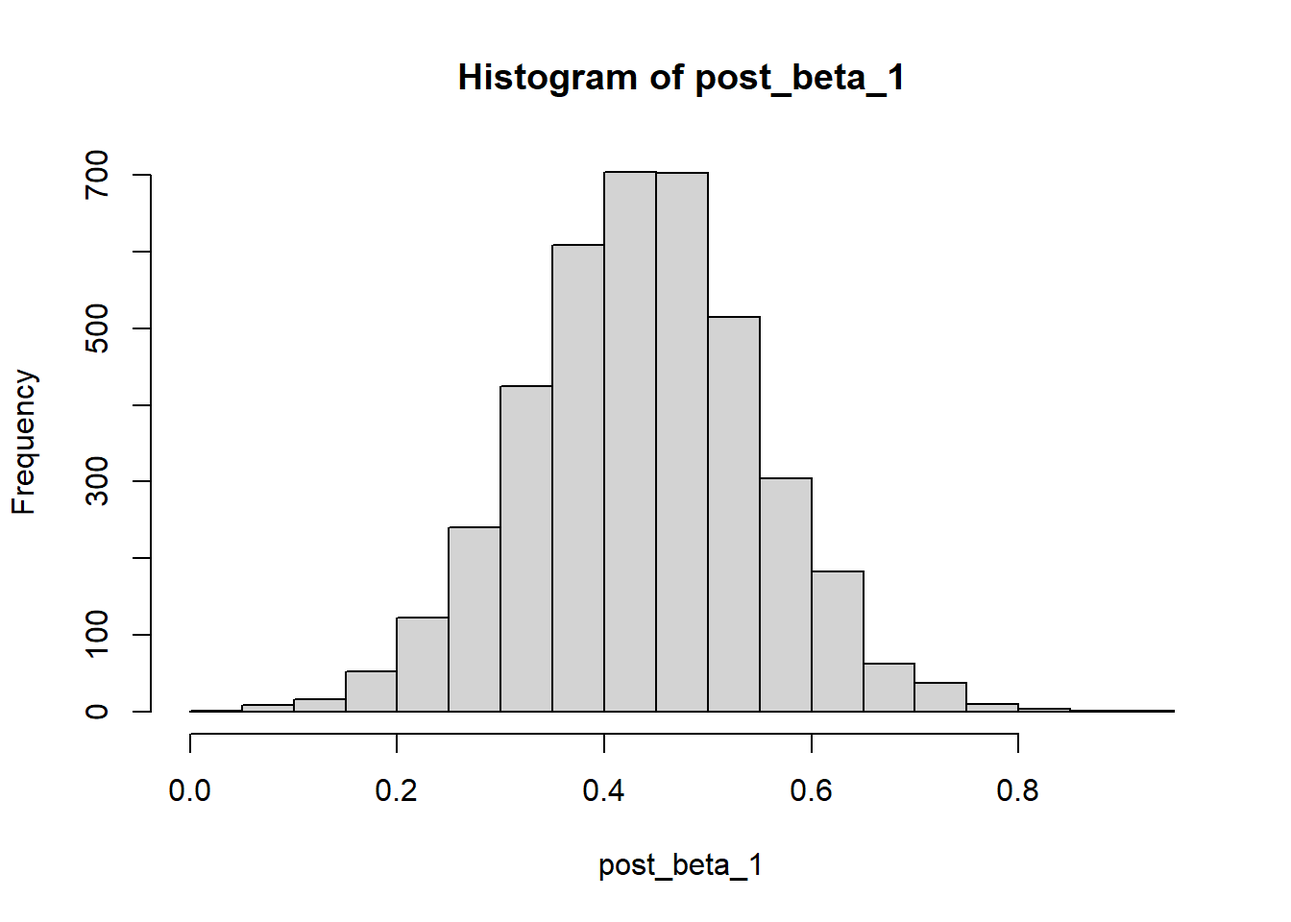
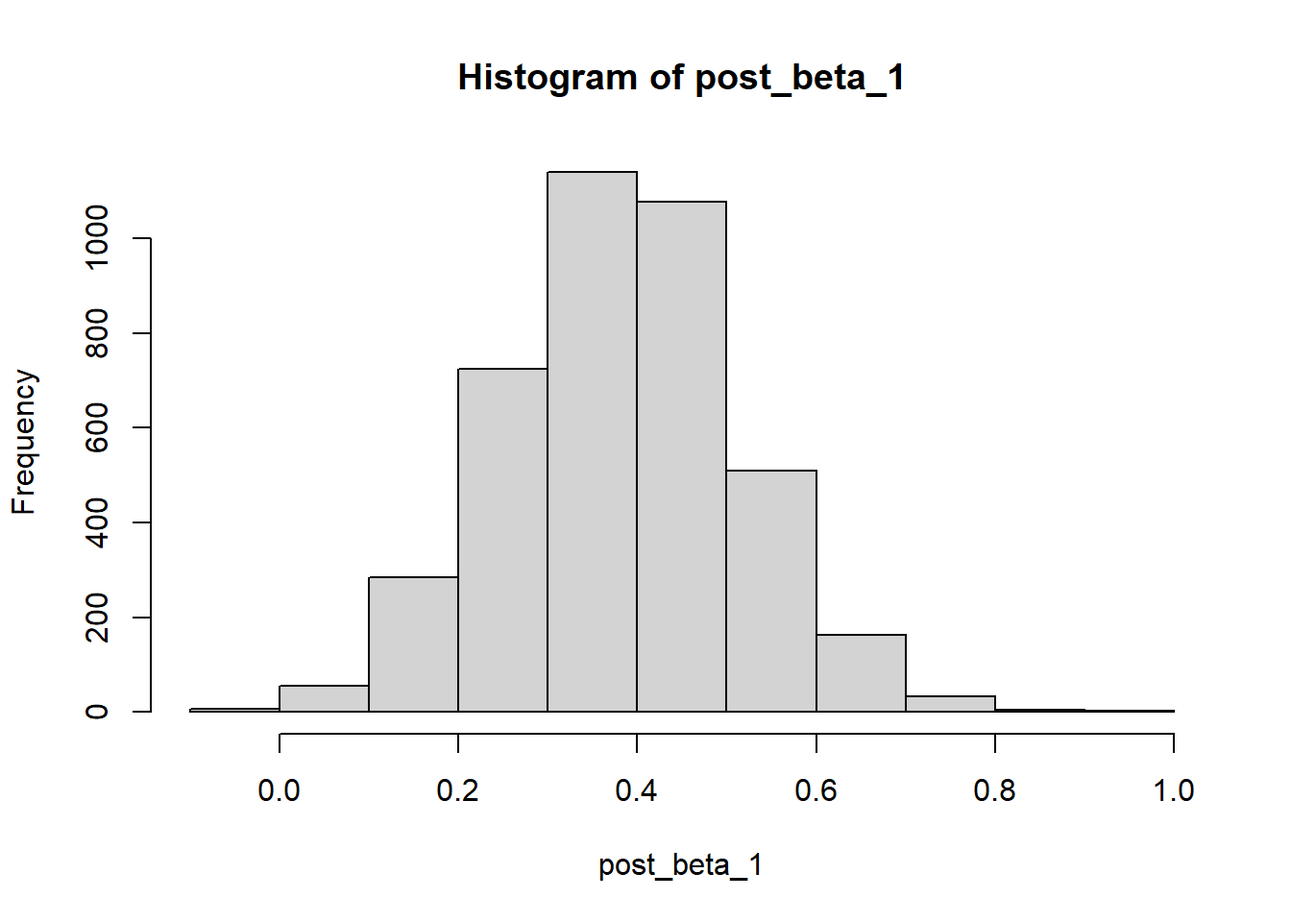
updated

diff --git a/docs/using-stan-in-r.html b/docs/using-stan-in-r.html
@@ -24,7 +24,7 @@
 <meta name="author" content="Jordan S. Martin &amp; Adrian V. Jaeggi" />
 
 
-<meta name="date" content="2021-05-20" />
+<meta name="date" content="2021-05-21" />
 
   <meta name="viewport" content="width=device-width, initial-scale=1" />
   <meta name="apple-mobile-web-app-capable" content="yes" />
@@ -417,7 +417,7 @@ generated quantities {
 <pre><code>## Warning in system(paste(CXX, ARGS), ignore.stdout = TRUE, ignore.stderr = TRUE): &#39;C:/rtools40/usr/mingw_/bin/g++&#39; not found</code></pre>
 <div class="sourceCode" id="cb19"><pre class="sourceCode r"><code class="sourceCode r"><span id="cb19-1"><a href="using-stan-in-r.html#cb19-1" aria-hidden="true" tabindex="-1"></a>stan_results <span class="ot">&lt;-</span> <span class="fu">sampling</span>(mod1, <span class="at">data=</span>stan_data, <span class="at">init =</span> <span class="dv">0</span>, <span class="at">warmup=</span><span class="dv">1500</span>, <span class="at">iter =</span> <span class="dv">2500</span>,</span>
 <span id="cb19-2"><a href="using-stan-in-r.html#cb19-2" aria-hidden="true" tabindex="-1"></a>                         <span class="at">chains=</span><span class="dv">4</span>, <span class="at">cores=</span><span class="dv">4</span>, <span class="at">control=</span><span class="fu">list</span>(<span class="at">adapt_delta=</span><span class="fl">0.90</span>) )</span></code></pre></div>
-<pre><code>## Warning: There were 93 divergent transitions after warmup. See
+<pre><code>## Warning: There were 1 divergent transitions after warmup. See
 ## http://mc-stan.org/misc/warnings.html#divergent-transitions-after-warmup
 ## to find out why this is a problem and how to eliminate them.</code></pre>
 <pre><code>## Warning: There were 4 chains where the estimated Bayesian Fraction of Missing Information was low. See
@@ -435,54 +435,54 @@ generated quantities {
 <p>Stan flags a few potential issues with the MCMC sampler. Note that the warning <code>## Warning in system(paste(CXX, ARGS), ignore.stdout = TRUE, ignore.stderr = TRUE): 'C:/rtools40/usr/mingw_/bin/g++' not found</code> during compilation of the model will sometimes appear on Windows computers and can be safely ignored. Further description of the sampler warnings can be found in the <a href="https://mc-stan.org/misc/warnings.html">Stan Warning Guide</a>. One warning is that “The largest R-hat is NA, indicating chains have not mixed.” Stan does not know whether some parameter values are fixed (causing Rhat = NA) because the sampler is stuck, or because the model has been intentionally specified with fixed parameter values (e.g. diagonals fixed to 1 in a correlation matrix or an intercept forced to 0). For the specified model, this is a harmless warning that can be safely ignored. However, we can also check for issues by looking at the Rhat values of all model parameters using <code>summary()</code> on the saved results. If an expected parameter is missing from the table or shows NA, this likely indicates an unintentional error in the model code.</p>
 <div class="sourceCode" id="cb26"><pre class="sourceCode r"><code class="sourceCode r"><span id="cb26-1"><a href="using-stan-in-r.html#cb26-1" aria-hidden="true" tabindex="-1"></a><span class="fu">summary</span>(stan_results)<span class="sc">$</span>summary[,<span class="st">&quot;Rhat&quot;</span>]</span></code></pre></div>
 <pre><code>##       mu_0     beta_1  Pcor[1,1]  Pcor[1,2]  Pcor[2,1]  Pcor[2,2]    sd_P[1]    sd_P[2]       sd_R  re_P[1,1]  re_P[1,2]  re_P[2,1] 
-##  1.0026320  1.0009686        NaN  1.0166652  1.0166652  0.9989995  1.0726442  1.0638429  1.0263059  1.0088335  1.0116059  1.0058076 
+##  1.0008967  1.0001588        NaN  1.0072679  1.0072679  0.9989995  1.1574188  1.0775618  1.0398132  1.0196134  1.0284245  1.0452443 
 ##  re_P[2,2]  re_P[3,1]  re_P[3,2]  re_P[4,1]  re_P[4,2]  re_P[5,1]  re_P[5,2]  re_P[6,1]  re_P[6,2]  re_P[7,1]  re_P[7,2]  re_P[8,1] 
-##  1.0094798  1.0001408  0.9993205  1.0029558  1.0019506  1.0029157  1.0000847  1.0043532  1.0020348  1.0010222  1.0018598  1.0027319 
+##  1.0011629  1.0184104  1.0021715  0.9997928  1.0022767  1.0174439  1.0052449  1.0069304  1.0016392  1.0006691  0.9996614  1.0001272 
 ##  re_P[8,2]  re_P[9,1]  re_P[9,2] re_P[10,1] re_P[10,2] re_P[11,1] re_P[11,2] re_P[12,1] re_P[12,2] re_P[13,1] re_P[13,2] re_P[14,1] 
-##  1.0088854  1.0027357  1.0058682  1.0002392  1.0172781  1.0065172  1.0089800  1.0034526  1.0015110  1.0000772  1.0027827  1.0127108 
+##  1.0018600  1.0166775  1.0204737  1.0362708  1.0008611  1.0008434  1.0000359  1.0581012  1.0007606  1.0046482  1.0000243  0.9998035 
 ## re_P[14,2] re_P[15,1] re_P[15,2] re_P[16,1] re_P[16,2] re_P[17,1] re_P[17,2] re_P[18,1] re_P[18,2] re_P[19,1] re_P[19,2] re_P[20,1] 
-##  1.0179641  1.0377981  1.0166437  1.0121575  1.0077579  1.0121821  1.0029017  1.0002369  1.0045655  1.0106781  1.0077376  1.0034594 
+##  0.9996619  1.0206148  1.0050943  1.0495529  1.0244163  0.9997984  1.0207368  1.0023433  1.0027906  1.0264816  1.0050040  1.0307196 
 ## re_P[20,2] re_P[21,1] re_P[21,2] re_P[22,1] re_P[22,2] re_P[23,1] re_P[23,2] re_P[24,1] re_P[24,2] re_P[25,1] re_P[25,2] re_P[26,1] 
-##  1.0085485  1.0096558  1.0008878  1.0037961  1.0102729  1.0173207  1.0227251  1.0039997  1.0016865  1.0068340  1.0031383  1.0006287 
+##  1.0090449  1.0211593  0.9995477  1.0119403  1.0138074  1.0028584  0.9993717  1.0017201  1.0004068  1.0112600  1.0023976  1.0013392 
 ## re_P[26,2] re_P[27,1] re_P[27,2] re_P[28,1] re_P[28,2] re_P[29,1] re_P[29,2] re_P[30,1] re_P[30,2] re_P[31,1] re_P[31,2] re_P[32,1] 
-##  1.0000878  1.0003371  1.0024651  1.0017270  1.0164660  0.9999240  1.0087429  1.0203268  1.0135270  1.0017517  1.0011365  1.0049886 
+##  1.0107415  0.9998755  1.0003715  1.0050791  1.0005347  1.0157901  1.0030050  1.0314979  1.0000213  1.0145041  1.0029017  1.0098378 
 ## re_P[32,2] re_P[33,1] re_P[33,2] re_P[34,1] re_P[34,2] re_P[35,1] re_P[35,2] re_P[36,1] re_P[36,2] re_P[37,1] re_P[37,2] re_P[38,1] 
-##  1.0055626  1.0075793  1.0014159  1.0012052  1.0013731  1.0076768  1.0090014  1.0072797  1.0006327  1.0188806  1.0119415  1.0186577 
+##  1.0028675  1.0401011  1.0129501  1.0161442  1.0394234  1.0069250  1.0031071  1.0067137  1.0020411  1.0251800  1.0002062  1.0198244 
 ## re_P[38,2] re_P[39,1] re_P[39,2] re_P[40,1] re_P[40,2] re_P[41,1] re_P[41,2] re_P[42,1] re_P[42,2] re_P[43,1] re_P[43,2] re_P[44,1] 
-##  1.0151119  1.0090711  1.0004891  1.0006548  1.0011479  1.0207025  1.0135385  1.0098359  1.0043959  1.0222056  1.0084265  1.0070951 
+##  0.9994618  1.0070820  1.0001880  1.0026890  1.0001338  1.0016284  1.0174026  1.0010212  1.0085000  1.0147819  0.9994687  1.0335753 
 ## re_P[44,2] re_P[45,1] re_P[45,2] re_P[46,1] re_P[46,2] re_P[47,1] re_P[47,2] re_P[48,1] re_P[48,2] re_P[49,1] re_P[49,2] re_P[50,1] 
-##  1.0304457  1.0089018  1.0091918  1.0025607  1.0022025  1.0040155  1.0006533  1.0025001  1.0090719  1.0097918  1.0037073  1.0084893 
+##  1.0115280  1.0000137  1.0020411  1.0255249  1.0016970  1.0054378  1.0006933  1.0018467  0.9996326  1.0075404  1.0048380  1.0224494 
 ## re_P[50,2]  Pcov[1,1]  Pcov[1,2]  Pcov[2,1]  Pcov[2,2]     V_P[1]     V_P[2]        V_R       lp__ 
-##  1.0057531  1.0449044  1.0218233  1.0218233  1.0319164  1.0449044  1.0319164  1.0279306  1.1225149</code></pre>
+##  1.0004108  1.0956553  1.0227750  1.0227750  1.0528411  1.0956553  1.0528411  1.0386245  1.2341243</code></pre>
 <p>In addition to the Rhat warning, the effective sample sizes of some model parameters are too low to ensure accurate inferences. It is helpful to see which parameters are causing these warnings by sorting on the lowest <code>n_eff</code> values in the summary table.</p>
 <div class="sourceCode" id="cb28"><pre class="sourceCode r"><code class="sourceCode r"><span id="cb28-1"><a href="using-stan-in-r.html#cb28-1" aria-hidden="true" tabindex="-1"></a><span class="fu">sort</span>(<span class="fu">summary</span>(stan_results)<span class="sc">$</span>summary[,<span class="st">&quot;n_eff&quot;</span>])</span></code></pre></div>
-<pre><code>##       lp__    sd_P[1]    sd_P[2]  Pcov[1,1]     V_P[1] re_P[44,2] re_P[15,1]        V_R       sd_R     V_P[2]  Pcov[2,2]  Pcov[1,2] 
-##   35.65893   58.12899   62.80334   89.60433   89.60433   98.41921  105.35462  107.05856  111.01354  112.54882  112.54882  126.14428 
-##  Pcov[2,1]  Pcor[1,2]  Pcor[2,1] re_P[14,2] re_P[30,1] re_P[30,2] re_P[43,1] re_P[41,1] re_P[15,2] re_P[41,2] re_P[37,1] re_P[23,2] 
-##  126.14428  165.01637  165.01637  175.60617  181.79966  189.57341  190.26715  195.25187  198.53528  199.52543  203.59017  210.66865 
-## re_P[38,2] re_P[23,1] re_P[28,2] re_P[38,1] re_P[37,2] re_P[44,1] re_P[14,1] re_P[17,1] re_P[22,2] re_P[10,2]  re_P[2,2] re_P[45,2] 
-##  217.38826  221.53154  225.02074  231.82558  235.81486  269.22337  275.57595  288.67236  290.89820  313.29463  314.54274  356.12807 
-## re_P[49,1] re_P[42,1] re_P[50,1] re_P[16,1] re_P[50,2] re_P[19,2] re_P[45,1] re_P[19,1] re_P[39,1] re_P[43,2] re_P[21,1]  re_P[1,2] 
-##  357.63195  378.32709  395.45295  405.65965  409.88504  416.68229  419.21104  424.91383  429.64442  442.07352  470.31014  479.06601 
-## re_P[20,2] re_P[48,2] re_P[11,2]  re_P[9,2] re_P[42,2] re_P[29,2] re_P[16,2] re_P[35,2] re_P[49,2]  re_P[1,1]  re_P[2,1] re_P[32,2] 
-##  545.22258  559.98124  569.11151  584.91943  605.44400  616.45218  621.65780  624.82614  633.63990  654.69107  686.88941  692.29973 
-## re_P[36,1] re_P[35,1]  re_P[8,2] re_P[33,1] re_P[22,1] re_P[11,1] re_P[32,1] re_P[18,2]       mu_0 re_P[20,1] re_P[40,2] re_P[24,2] 
-##  749.90637  751.07229  781.70792  801.91688  821.22141  860.63509  874.00721  951.15378  957.21085  965.64037  993.97134 1018.00603 
-##  re_P[9,1] re_P[24,1] re_P[47,1] re_P[17,2]  re_P[6,1] re_P[46,2] re_P[33,2] re_P[34,2] re_P[25,2] re_P[25,1] re_P[46,1] re_P[26,2] 
-## 1041.44863 1057.54081 1083.22626 1114.82606 1142.57835 1183.08778 1197.29516 1223.05726 1233.85505 1246.44675 1263.75845 1308.85597 
-## re_P[12,1] re_P[40,1] re_P[28,1]  re_P[6,2] re_P[21,2]  re_P[5,1]  re_P[8,1]  re_P[4,2]     beta_1 re_P[34,1]  re_P[4,1] re_P[31,1] 
-## 1338.03356 1364.42699 1506.38212 1658.15969 1731.68936 1750.65817 1781.78022 1798.06437 1959.43300 1968.55354 1989.51415 1998.22083 
-## re_P[48,1] re_P[26,1] re_P[13,2]  Pcor[2,2] re_P[27,2]  re_P[5,2] re_P[31,2]  re_P[3,1] re_P[12,2] re_P[29,1]  re_P[3,2] re_P[27,1] 
-## 2071.43653 2132.96468 2181.82000 2241.25987 2272.30280 2272.81071 2282.25112 2313.26050 2615.54067 2671.80157 2775.73864 2787.60689 
-## re_P[18,1]  re_P[7,1] re_P[39,2] re_P[10,1] re_P[47,2]  re_P[7,2] re_P[13,1] re_P[36,2] 
-## 2938.57898 3014.69643 3504.62641 3645.64250 3869.54815 4033.43111 4048.90051 4634.91106</code></pre>
-<p>It is typical that individual-specific trait values in <code>re_P</code> have relatively lower effective sample sizes than the population-level parameters of primary interest. More damningly, however, we also see an extremely low effective sample for <code>lp__</code>, which is the joint log density of the model (up to a constant internally defined <a href="https://www.jax.org/news-and-insights/jax-blog/2015/october/lp-in-stan-output#">scale factor</a>. This provides further evidence that the model, as currently defined, is poorly identified. The key random effect SDs <code>sd_P</code> and variances <code>V_P</code> are also very poorly sampled, along with the residual SD <code>sd_R</code> and variance <code>V_R</code>. We could run the MCMC sampler for more iterations, increase the warm-up period, and change various other manual control settings. However, the deeper issue here is not that the model is formally mispecified but rather that we have inefficiently parametrized the model for sampling.</p>
+<pre><code>##       lp__    sd_P[1]  Pcov[1,1]     V_P[1] re_P[12,1]  re_P[2,1] re_P[16,1]    sd_P[2] re_P[33,1] re_P[10,1] re_P[44,1]       sd_R 
+##   10.97995   27.24745   42.16285   42.16285   64.40411   82.93862   83.16608   92.56539  102.40674  114.44290  116.45839  118.99962 
+## re_P[30,1] re_P[20,1]        V_R     V_P[2]  Pcov[2,2] re_P[37,1] re_P[46,1] re_P[19,1] re_P[34,2] re_P[50,1] re_P[15,1] re_P[38,1] 
+##  122.94777  124.82995  125.71990  134.79132  134.79132  155.26121  155.46897  157.98349  158.67595  183.74590  196.47660  197.55655 
+##  re_P[1,1] re_P[21,1] re_P[16,2]  re_P[3,1]  re_P[9,1] re_P[29,1]  re_P[1,2]  Pcov[1,2]  Pcov[2,1] re_P[31,1]  re_P[5,1]  re_P[9,2] 
+##  200.55848  224.97798  232.53858  234.30552  271.38077  273.57623  279.45320  296.76103  296.76103  326.50819  349.15362  358.43665 
+## re_P[43,1] re_P[17,2] re_P[41,2] re_P[22,1] re_P[22,2] re_P[34,1] re_P[32,1]  Pcor[1,2]  Pcor[2,1] re_P[44,2] re_P[26,2] re_P[33,2] 
+##  430.96482  432.25550  465.30813  487.01704  487.38079  521.68000  569.04680  593.83738  593.83738  595.85456  627.88391  630.52415 
+## re_P[25,1] re_P[20,2] re_P[49,1] re_P[36,1] re_P[42,2]  re_P[6,1] re_P[47,1] re_P[35,1] re_P[15,2] re_P[13,1] re_P[39,1] re_P[49,2] 
+##  725.27211  731.23054  781.43202  826.92835  883.60653  927.67319  984.36124 1039.65898 1068.96995 1255.79995 1381.24821 1474.95953 
+##  re_P[5,2] re_P[29,2] re_P[25,2] re_P[19,2] re_P[45,2]  re_P[3,2]  re_P[8,2] re_P[10,2] re_P[28,1]  re_P[4,2] re_P[46,2] re_P[18,2] 
+## 1626.33500 1650.43908 1703.85418 1763.79002 1798.34864 1858.14798 1886.58272 1986.00320 2066.43964 2237.87316 2460.50193 2517.59106 
+## re_P[35,2] re_P[30,2] re_P[24,2] re_P[41,1] re_P[32,2] re_P[28,2]  re_P[2,2]       mu_0     beta_1 re_P[23,1] re_P[12,2] re_P[47,2] 
+## 2555.80487 2566.52470 2621.26703 2633.14269 2786.17790 2809.10773 2812.69012 2854.84449 2856.14831 2924.49013 3003.85518 3007.51877 
+##  re_P[7,1] re_P[48,1] re_P[11,1] re_P[40,1]  re_P[6,2]  Pcor[2,2] re_P[14,2] re_P[21,2] re_P[36,2] re_P[23,2] re_P[48,2] re_P[31,2] 
+## 3053.59926 3053.78026 3091.77888 3115.32614 3118.84701 3269.96560 3358.36140 3369.13936 3396.81445 3500.03227 3541.64807 3580.73653 
+## re_P[26,1] re_P[24,1] re_P[50,2] re_P[18,1] re_P[11,2] re_P[42,1] re_P[38,2] re_P[39,2] re_P[17,1] re_P[27,1] re_P[43,2]  re_P[8,1] 
+## 3714.32350 3731.71198 3853.84891 4114.42998 4133.32341 4158.00773 4182.73043 4188.62715 4192.62621 4264.77744 4281.57240 4377.90817 
+##  re_P[7,2] re_P[45,1] re_P[13,2] re_P[40,2] re_P[37,2] re_P[14,1]  re_P[4,1] re_P[27,2] 
+## 4393.12039 4500.05943 4533.14194 4828.37430 5125.55654 5393.71614 5419.25127 5753.58966</code></pre>
+<p>It is typical that individual-specific trait values in <code>re_P</code> have relatively lower effective sample sizes than the population-level parameters of primary interest. More damningly, however, we also see an extremely low effective sample for <code>lp__</code>, which is the joint log density of the model (up to a constant internally defined <a href="https://www.jax.org/news-and-insights/jax-blog/2015/october/lp-in-stan-output#">scale factor</a>). This provides further evidence that the model, as currently defined, is poorly identified. The key random effect SDs <code>sd_P</code> and variances <code>V_P</code> are also very poorly sampled, along with the residual SD <code>sd_R</code> and variance <code>V_R</code>. We could run the MCMC sampler for more iterations, increase the warm-up period, and change various other manual control settings. However, the deeper issue here is not that the model is formally mispecified but rather that we have inefficiently parametrized the model for sampling.</p>
 <div id="cholesky-decompositions" class="section level3" number="1.4.1">
 <h3><span class="header-section-number">1.4.1</span> Cholesky decompositions</h3>
 <p>Although the <code>.stan</code> file appropriately represents the formal model, it is programmed in such a way that the MCMC sampler has troubling sampling from the joint posterior distribution of the model. One of the first things we can do to increase efficiency is to reduce redundant computation over matrices in our model. This can be done with Cholesky decompositions. For any positive definite matrix <span class="math inline">\(\boldsymbol{\Omega}\)</span>, a Cholesky decomposition can be defined such that</p>
 <p><span class="math display">\[\boldsymbol{\Omega} = \boldsymbol{\mathrm{L}_{\Omega}} \boldsymbol{\mathrm{L}_{\Omega}}^{\mathrm{T}}\]</span>
 where <span class="math inline">\(\boldsymbol{\mathrm{L}_{\Omega}}\)</span> is a lower-triangular matrix and <span class="math inline">\(^{\mathrm{T}}\)</span> indicates matrix transposition. This property means that we can always do computations of reduced dimensionality on the lower-triangular matrix <span class="math inline">\(\boldsymbol{\mathrm{L}_{\Omega}}\)</span> and subsequently recover the full positive-definitive matrix <span class="math inline">\(\boldsymbol{\Omega}\)</span> by post-multiplying <span class="math inline">\(\boldsymbol{\mathrm{L}_{\Omega}}\)</span> with its transpose.</p>
-<p>Stan provides many built-in functions for easily defining and manipulating Cholesky decomposed matrices, which we can use to re-parameterize the <code>.stan</code> file. Comments are added below where Cholesky decompositions have been introduced.</p>
+<p>Stan provides many built-in functions for easily defining and manipulating Cholesky decomposed matrices, which we can use to reparametrize the <code>.stan</code> file. Comments are added below where Cholesky decompositions have been introduced.</p>
 <pre class="stan"><code>data {
     int&lt;lower=1&gt; N; 
     int&lt;lower=1&gt; I; 
@@ -529,7 +529,7 @@ generated quantities {
 </div>
 <div id="non-centered-random-effects" class="section level3" number="1.4.2">
 <h3><span class="header-section-number">1.4.2</span> Non-centered random effects</h3>
-<p>Before running this model, we can also reparametrize the random effects to further enhance efficiency. Currently, we express the unobserved random effects in <code>re_P</code> as being generated from a distribution with unobserved lower Cholesky covariance matrix <code>LPcov</code>. While mathematically appropriate, this specification can make it difficult for the model to identify the scale of the random effects. An alternative but mathematically equivalent parametrization can be used to separating out the scale of the random effect deviations from the population-level (co)variances, which often will enhance model identification. Note that any normally distributed random variable <span class="math inline">\(\boldsymbol{z}\)</span> where</p>
+<p>Before running this model, we can also reparametrize the random effects to further enhance efficiency. Currently, we express the unobserved random effects in <code>re_P</code> as being generated from a distribution with unobserved lower Cholesky covariance matrix <code>LPcov</code>. While mathematically appropriate, this specification can make it difficult for the model to identify the scale of the random effects. An alternative but mathematically equivalent parametrization can be used to separate out the scale of the random effect deviations from the population-level (co)variances, which often will enhance model identification. Note that any normally distributed random variable <span class="math inline">\(\boldsymbol{z}\)</span> where</p>
 <p><span class="math display">\[\boldsymbol{z} \sim \mathrm{Normal}(0,\sigma_z)\]</span>
 can also be expressed as a standard normal variable <span class="math inline">\(z_{std}\)</span> scaled by the original SD
 <span class="math display">\[\boldsymbol{z} \equiv \boldsymbol{z_{\mathrm{std}}}\sigma_z\]</span>
@@ -537,7 +537,7 @@ can also be expressed as a standard normal variable <span class="math inline">\(
 Similarly for a <em>n</em> x <em>p</em> matrix <span class="math inline">\(\boldsymbol{Z}\)</span> of <em>p</em> multivariate phenotypes with covariance matrix <span class="math inline">\(\boldsymbol{\mathrm{C}}\)</span></p>
 <p><span class="math display">\[\boldsymbol{Z} \equiv   \boldsymbol{Z_{\mathrm{std}}} \boldsymbol{\mathrm{L}_{\boldsymbol{\mathrm{C}}}}^{\mathrm{T}}\]</span>
 <span class="math display">\[\mathrm{vec}(\boldsymbol{Z_{\mathrm{std}}}) \sim \mathrm{MVNormal}(\boldsymbol{0},\boldsymbol{\mathrm{I}})\]</span>
-where <span class="math inline">\(\boldsymbol{\mathrm{L}_{\boldsymbol{\mathrm{C}}}}\)</span> is the lower-triangular Cholesky decomposition. This decomposition. Implementing this so-called “non-centered parametrization” is straightforward in Stan and can of course also be applied to correlation matrices. Building on the Cholesky decompositions added in the previous subsection, and using the <code>'</code> symbol for the transpose function</p>
+where <span class="math inline">\(\boldsymbol{\mathrm{L}_{\boldsymbol{\mathrm{C}}}}\)</span> is the lower-triangular Cholesky decomposition. Implementing this so-called “non-centered parametrization” is straightforward in Stan and can of course also be applied to correlation matrices. Building on the Cholesky decompositions added in the previous subsection, and using the <code>'</code> symbol for the transpose function</p>
 <div class="sourceCode" id="cb31"><pre class="sourceCode r"><code class="sourceCode r"><span id="cb31-1"><a href="using-stan-in-r.html#cb31-1" aria-hidden="true" tabindex="-1"></a><span class="fu">write</span>(<span class="st">&quot;</span></span>
 <span id="cb31-2"><a href="using-stan-in-r.html#cb31-2" aria-hidden="true" tabindex="-1"></a><span class="st">data {</span></span>
 <span id="cb31-3"><a href="using-stan-in-r.html#cb31-3" aria-hidden="true" tabindex="-1"></a><span class="st">    int&lt;lower=1&gt; N; </span></span>
@@ -580,7 +580,7 @@ where <span class="math inline">\(\boldsymbol{\mathrm{L}_{\boldsymbol{\mathrm{C}
 <span id="cb31-40"><a href="using-stan-in-r.html#cb31-40" aria-hidden="true" tabindex="-1"></a><span class="st">  cov_matrix[2] Pcov = diag_matrix(V_P) * Pcor * diag_matrix(V_P);</span></span>
 <span id="cb31-41"><a href="using-stan-in-r.html#cb31-41" aria-hidden="true" tabindex="-1"></a><span class="st">  </span></span>
 <span id="cb31-42"><a href="using-stan-in-r.html#cb31-42" aria-hidden="true" tabindex="-1"></a><span class="st">}&quot;</span>, <span class="st">&quot;mod1.stan&quot;</span>)</span></code></pre></div>
-<p>Note that the specification of the random effects has been greatly simplified with the non-centered parameterization. By separating out the scale of the deviations and the population-level (co)variances, it becomes unnecessary to directly specify the generative distribution of the full random effects as above. Instead, the full distribution is partitioned into three independent priors over the random effect standard normal deviations, SDs, and correlations, and the generative distribution of these values is specified directly through the scaling of the standard normals, i.e. <code>re_P = std_P * diag_pre_multiply(sd_P,LP_cor)'</code>=<span class="math inline">\(\boldsymbol{Z} \equiv \boldsymbol{Z_{\mathrm{std}}} \boldsymbol{\mathrm{L}_{\boldsymbol{\mathrm{C}}}}^{\mathrm{T}}\)</span> above. This should make the model much easier to sample from.</p>
+<p>Note that the specification of the random effects has been greatly simplified with the non-centered parametrization. By separating out the scale of the deviations and the population-level (co)variances, it becomes unnecessary to directly specify the generative distribution of the full random effects as above. Instead, the full distribution is partitioned into three independent priors over the random effect standard normal deviations, SDs, and correlations, and the generative distribution of these values is specified directly through the scaling of the standard normals, i.e. <code>re_P = std_P * diag_pre_multiply(sd_P,LP_cor)'</code>=<span class="math inline">\(\boldsymbol{Z} \equiv \boldsymbol{Z_{\mathrm{std}}} \boldsymbol{\mathrm{L}_{\boldsymbol{\mathrm{C}}}}^{\mathrm{T}}\)</span> above. This should make the model much easier to sample from.</p>
 <div class="sourceCode" id="cb32"><pre class="sourceCode r"><code class="sourceCode r"><span id="cb32-1"><a href="using-stan-in-r.html#cb32-1" aria-hidden="true" tabindex="-1"></a><span class="fu">library</span>(rstan)</span>
 <span id="cb32-2"><a href="using-stan-in-r.html#cb32-2" aria-hidden="true" tabindex="-1"></a></span>
 <span id="cb32-3"><a href="using-stan-in-r.html#cb32-3" aria-hidden="true" tabindex="-1"></a>mod1 <span class="ot">=</span> <span class="fu">stan_model</span>(<span class="st">&quot;mod1.stan&quot;</span>)</span></code></pre></div>
@@ -594,14 +594,14 @@ where <span class="math inline">\(\boldsymbol{\mathrm{L}_{\boldsymbol{\mathrm{C}
 <div class="sourceCode" id="cb35"><pre class="sourceCode r"><code class="sourceCode r"><span id="cb35-1"><a href="using-stan-in-r.html#cb35-1" aria-hidden="true" tabindex="-1"></a>post_beta_1 <span class="ot">=</span> MCMCsamples<span class="sc">$</span>beta_1 <span class="co">#extract population-level slope</span></span>
 <span id="cb35-2"><a href="using-stan-in-r.html#cb35-2" aria-hidden="true" tabindex="-1"></a></span>
 <span id="cb35-3"><a href="using-stan-in-r.html#cb35-3" aria-hidden="true" tabindex="-1"></a><span class="fu">median</span>(post_beta_1) <span class="co">#central tendency of posterior</span></span></code></pre></div>
-<pre><code>## [1] 0.4382729</code></pre>
+<pre><code>## [1] 0.3826693</code></pre>
 <div class="sourceCode" id="cb37"><pre class="sourceCode r"><code class="sourceCode r"><span id="cb37-1"><a href="using-stan-in-r.html#cb37-1" aria-hidden="true" tabindex="-1"></a><span class="fu">mad</span>(post_beta_1) <span class="co">#dispersion around central tendency</span></span></code></pre></div>
-<pre><code>## [1] 0.1093818</code></pre>
+<pre><code>## [1] 0.1289059</code></pre>
 <div class="sourceCode" id="cb39"><pre class="sourceCode r"><code class="sourceCode r"><span id="cb39-1"><a href="using-stan-in-r.html#cb39-1" aria-hidden="true" tabindex="-1"></a><span class="fu">quantile</span>(post_beta_1, <span class="fu">c</span>(<span class="fl">0.05</span>,<span class="fl">0.95</span>)) <span class="co">#90% credible interval</span></span></code></pre></div>
 <pre><code>##        5%       95% 
-## 0.2487193 0.6207473</code></pre>
+## 0.1594938 0.6001436</code></pre>
 <div class="sourceCode" id="cb41"><pre class="sourceCode r"><code class="sourceCode r"><span id="cb41-1"><a href="using-stan-in-r.html#cb41-1" aria-hidden="true" tabindex="-1"></a><span class="fu">sum</span>(post_beta_1 <span class="sc">&gt;</span> <span class="dv">0</span>)<span class="sc">/</span><span class="fu">length</span>(post_beta_1) <span class="co">#posterior probability of + effect</span></span></code></pre></div>
-<pre><code>## [1] 1</code></pre>
+<pre><code>## [1] 0.99825</code></pre>
 <div class="sourceCode" id="cb43"><pre class="sourceCode r"><code class="sourceCode r"><span id="cb43-1"><a href="using-stan-in-r.html#cb43-1" aria-hidden="true" tabindex="-1"></a><span class="fu">hist</span>(post_beta_1) <span class="co">#MCMC approximation of posterior distribution</span></span></code></pre></div>
 <p><img src="SAMs_files/figure-html/unnamed-chunk-17-1.png" width="672" /></p>
 <p>We encourage the use of the <code>shinystan</code> R package for deeper inspection of model convergence and results with a GUI. In general, researchers should be skeptical of reporting results accompanied with sampler warnings and should seek to remove any diagnostic concerns prior to biological interpretation of the estimates.</p>
@@ -794,15 +794,15 @@ where <span class="math inline">\(\boldsymbol{\mathrm{L}_{\boldsymbol{\mathrm{C}
 <span id="cb51-29"><a href="using-stan-in-r.html#cb51-29" aria-hidden="true" tabindex="-1"></a>Gvalues <span class="ot">&lt;-</span> <span class="fu">rmvnorm</span>(<span class="dv">1</span>, <span class="at">mean=</span><span class="fu">rep</span>(<span class="dv">0</span>,I<span class="sc">*</span><span class="dv">2</span>), <span class="at">sigma=</span>G_block)</span>
 <span id="cb51-30"><a href="using-stan-in-r.html#cb51-30" aria-hidden="true" tabindex="-1"></a>G_val <span class="ot">=</span> <span class="fu">data.frame</span>(<span class="fu">matrix</span>(Gvalues, <span class="at">nrow=</span>I, <span class="at">ncol=</span><span class="dv">2</span>))</span>
 <span id="cb51-31"><a href="using-stan-in-r.html#cb51-31" aria-hidden="true" tabindex="-1"></a><span class="fu">cor</span>(G_val)</span></code></pre></div>
-<pre><code>##           X1        X2
-## X1 1.0000000 0.5736608
-## X2 0.5736608 1.0000000</code></pre>
+<pre><code>##          X1       X2
+## X1 1.000000 0.466178
+## X2 0.466178 1.000000</code></pre>
 <div class="sourceCode" id="cb53"><pre class="sourceCode r"><code class="sourceCode r"><span id="cb53-1"><a href="using-stan-in-r.html#cb53-1" aria-hidden="true" tabindex="-1"></a>Evalues <span class="ot">&lt;-</span> <span class="fu">rmvnorm</span>(<span class="dv">1</span>, <span class="at">mean=</span><span class="fu">rep</span>(<span class="dv">0</span>,I<span class="sc">*</span><span class="dv">2</span>), <span class="at">sigma=</span>E_block)</span>
 <span id="cb53-2"><a href="using-stan-in-r.html#cb53-2" aria-hidden="true" tabindex="-1"></a>E_val <span class="ot">=</span> <span class="fu">data.frame</span>(<span class="fu">matrix</span>(Evalues, <span class="at">nrow=</span>I, <span class="at">ncol=</span><span class="dv">2</span>))</span>
 <span id="cb53-3"><a href="using-stan-in-r.html#cb53-3" aria-hidden="true" tabindex="-1"></a><span class="fu">cor</span>(E_val)</span></code></pre></div>
-<pre><code>##            X1         X2
-## X1  1.0000000 -0.5803694
-## X2 -0.5803694  1.0000000</code></pre>
+<pre><code>##           X1        X2
+## X1  1.000000 -0.513424
+## X2 -0.513424  1.000000</code></pre>
 <div class="sourceCode" id="cb55"><pre class="sourceCode r"><code class="sourceCode r"><span id="cb55-1"><a href="using-stan-in-r.html#cb55-1" aria-hidden="true" tabindex="-1"></a><span class="co">#combine</span></span>
 <span id="cb55-2"><a href="using-stan-in-r.html#cb55-2" aria-hidden="true" tabindex="-1"></a>re_P <span class="ot">=</span> <span class="fu">cbind</span>(G_val,E_val)</span>
 <span id="cb55-3"><a href="using-stan-in-r.html#cb55-3" aria-hidden="true" tabindex="-1"></a><span class="fu">colnames</span>(re_P) <span class="ot">=</span> <span class="fu">c</span>(<span class="st">&quot;mu_A&quot;</span>, <span class="st">&quot;beta_A&quot;</span>, <span class="st">&quot;mu_E&quot;</span>, <span class="st">&quot;beta_E&quot;</span>)</span>
@@ -1037,18 +1037,18 @@ The additive genetic proportions can be conceptualized as reaction norm heritabi
 <p>Let’s see how well we recovered the genetic and environmental (co)variances of the reaction norm parameters. Due to random sampling and our relatively small sample size, we should anticipate noisy estimates.</p>
 <div class="sourceCode" id="cb65"><pre class="sourceCode r"><code class="sourceCode r"><span id="cb65-1"><a href="using-stan-in-r.html#cb65-1" aria-hidden="true" tabindex="-1"></a><span class="co">#RN intercepts [1] and slopes [2]</span></span>
 <span id="cb65-2"><a href="using-stan-in-r.html#cb65-2" aria-hidden="true" tabindex="-1"></a><span class="fu">apply</span>(post<span class="sc">$</span>V_P, <span class="dv">2</span>, median) <span class="co">#phenotypic variance</span></span></code></pre></div>
-<pre><code>## [1] 0.9725473 0.7724381</code></pre>
+<pre><code>## [1] 0.4565685 0.8238613</code></pre>
 <div class="sourceCode" id="cb67"><pre class="sourceCode r"><code class="sourceCode r"><span id="cb67-1"><a href="using-stan-in-r.html#cb67-1" aria-hidden="true" tabindex="-1"></a><span class="fu">apply</span>(post<span class="sc">$</span>V_G, <span class="dv">2</span>, median) <span class="co">#genetic variance</span></span></code></pre></div>
-<pre><code>## [1] 0.7025388 0.1696782</code></pre>
+<pre><code>## [1] 0.2154537 0.3128292</code></pre>
 <div class="sourceCode" id="cb69"><pre class="sourceCode r"><code class="sourceCode r"><span id="cb69-1"><a href="using-stan-in-r.html#cb69-1" aria-hidden="true" tabindex="-1"></a><span class="fu">apply</span>(post<span class="sc">$</span>V_E, <span class="dv">2</span>, median) <span class="co">#environmental variance</span></span></code></pre></div>
-<pre><code>## [1] 0.2558341 0.5818793</code></pre>
+<pre><code>## [1] 0.2269982 0.4946511</code></pre>
 <div class="sourceCode" id="cb71"><pre class="sourceCode r"><code class="sourceCode r"><span id="cb71-1"><a href="using-stan-in-r.html#cb71-1" aria-hidden="true" tabindex="-1"></a><span class="co">#RN intercept and slope correlation</span></span>
 <span id="cb71-2"><a href="using-stan-in-r.html#cb71-2" aria-hidden="true" tabindex="-1"></a><span class="fu">median</span>(post<span class="sc">$</span>Pcor[,<span class="dv">1</span>,<span class="dv">2</span>]) <span class="co">#phenotypic corr</span></span></code></pre></div>
-<pre><code>## [1] 0.001691242</code></pre>
+<pre><code>## [1] -0.02621351</code></pre>
 <div class="sourceCode" id="cb73"><pre class="sourceCode r"><code class="sourceCode r"><span id="cb73-1"><a href="using-stan-in-r.html#cb73-1" aria-hidden="true" tabindex="-1"></a><span class="fu">median</span>(post<span class="sc">$</span>Gcor[,<span class="dv">1</span>,<span class="dv">2</span>]) <span class="co">#genetic corr</span></span></code></pre></div>
-<pre><code>## [1] 0.2310703</code></pre>
+<pre><code>## [1] 0.4236677</code></pre>
 <div class="sourceCode" id="cb75"><pre class="sourceCode r"><code class="sourceCode r"><span id="cb75-1"><a href="using-stan-in-r.html#cb75-1" aria-hidden="true" tabindex="-1"></a><span class="fu">median</span>(post<span class="sc">$</span>Ecor[,<span class="dv">1</span>,<span class="dv">2</span>]) <span class="co">#environmental corr</span></span></code></pre></div>
-<pre><code>## [1] -0.1965529</code></pre>
+<pre><code>## [1] -0.3703992</code></pre>
 
 </div>
 </div>

diff --git a/docs/introduction.html b/docs/introduction.html
@@ -24,7 +24,7 @@
 <meta name="author" content="Jordan S. Martin &amp; Adrian V. Jaeggi" />
 
 
-<meta name="date" content="2021-05-20" />
+<meta name="date" content="2021-05-21" />
 
   <meta name="viewport" content="width=device-width, initial-scale=1" />
   <meta name="apple-mobile-web-app-capable" content="yes" />
@@ -176,7 +176,7 @@ code span.wa { color: #60a0b0; font-weight: bold; font-style: italic; } /* Warni
 <div id="header">
 <h1 class="title">Estimating Social Animal Models in Stan</h1>
 <p class="author"><em>Jordan S. Martin &amp; Adrian V. Jaeggi</em></p>
-<p class="date"><em>2021-05-20</em></p>
+<p class="date"><em>2021-05-21</em></p>
 </div>
 <div id="introduction" class="section level1 unnumbered">
 <h1>Introduction</h1>

diff --git a/docs/extending-sams.html b/docs/extending-sams.html
@@ -24,7 +24,7 @@
 <meta name="author" content="Jordan S. Martin &amp; Adrian V. Jaeggi" />
 
 
-<meta name="date" content="2021-05-20" />
+<meta name="date" content="2021-05-21" />
 
   <meta name="viewport" content="width=device-width, initial-scale=1" />
   <meta name="apple-mobile-web-app-capable" content="yes" />

diff --git a/docs/resources.html b/docs/resources.html
@@ -24,7 +24,7 @@
 <meta name="author" content="Jordan S. Martin &amp; Adrian V. Jaeggi" />
 
 
-<meta name="date" content="2021-05-20" />
+<meta name="date" content="2021-05-21" />
 
   <meta name="viewport" content="width=device-width, initial-scale=1" />
   <meta name="apple-mobile-web-app-capable" content="yes" />

diff --git a/docs/sam-coding-tutorial.html b/docs/sam-coding-tutorial.html
@@ -24,7 +24,7 @@
 <meta name="author" content="Jordan S. Martin &amp; Adrian V. Jaeggi" />
 
 
-<meta name="date" content="2021-05-20" />
+<meta name="date" content="2021-05-21" />
 
   <meta name="viewport" content="width=device-width, initial-scale=1" />
   <meta name="apple-mobile-web-app-capable" content="yes" />
